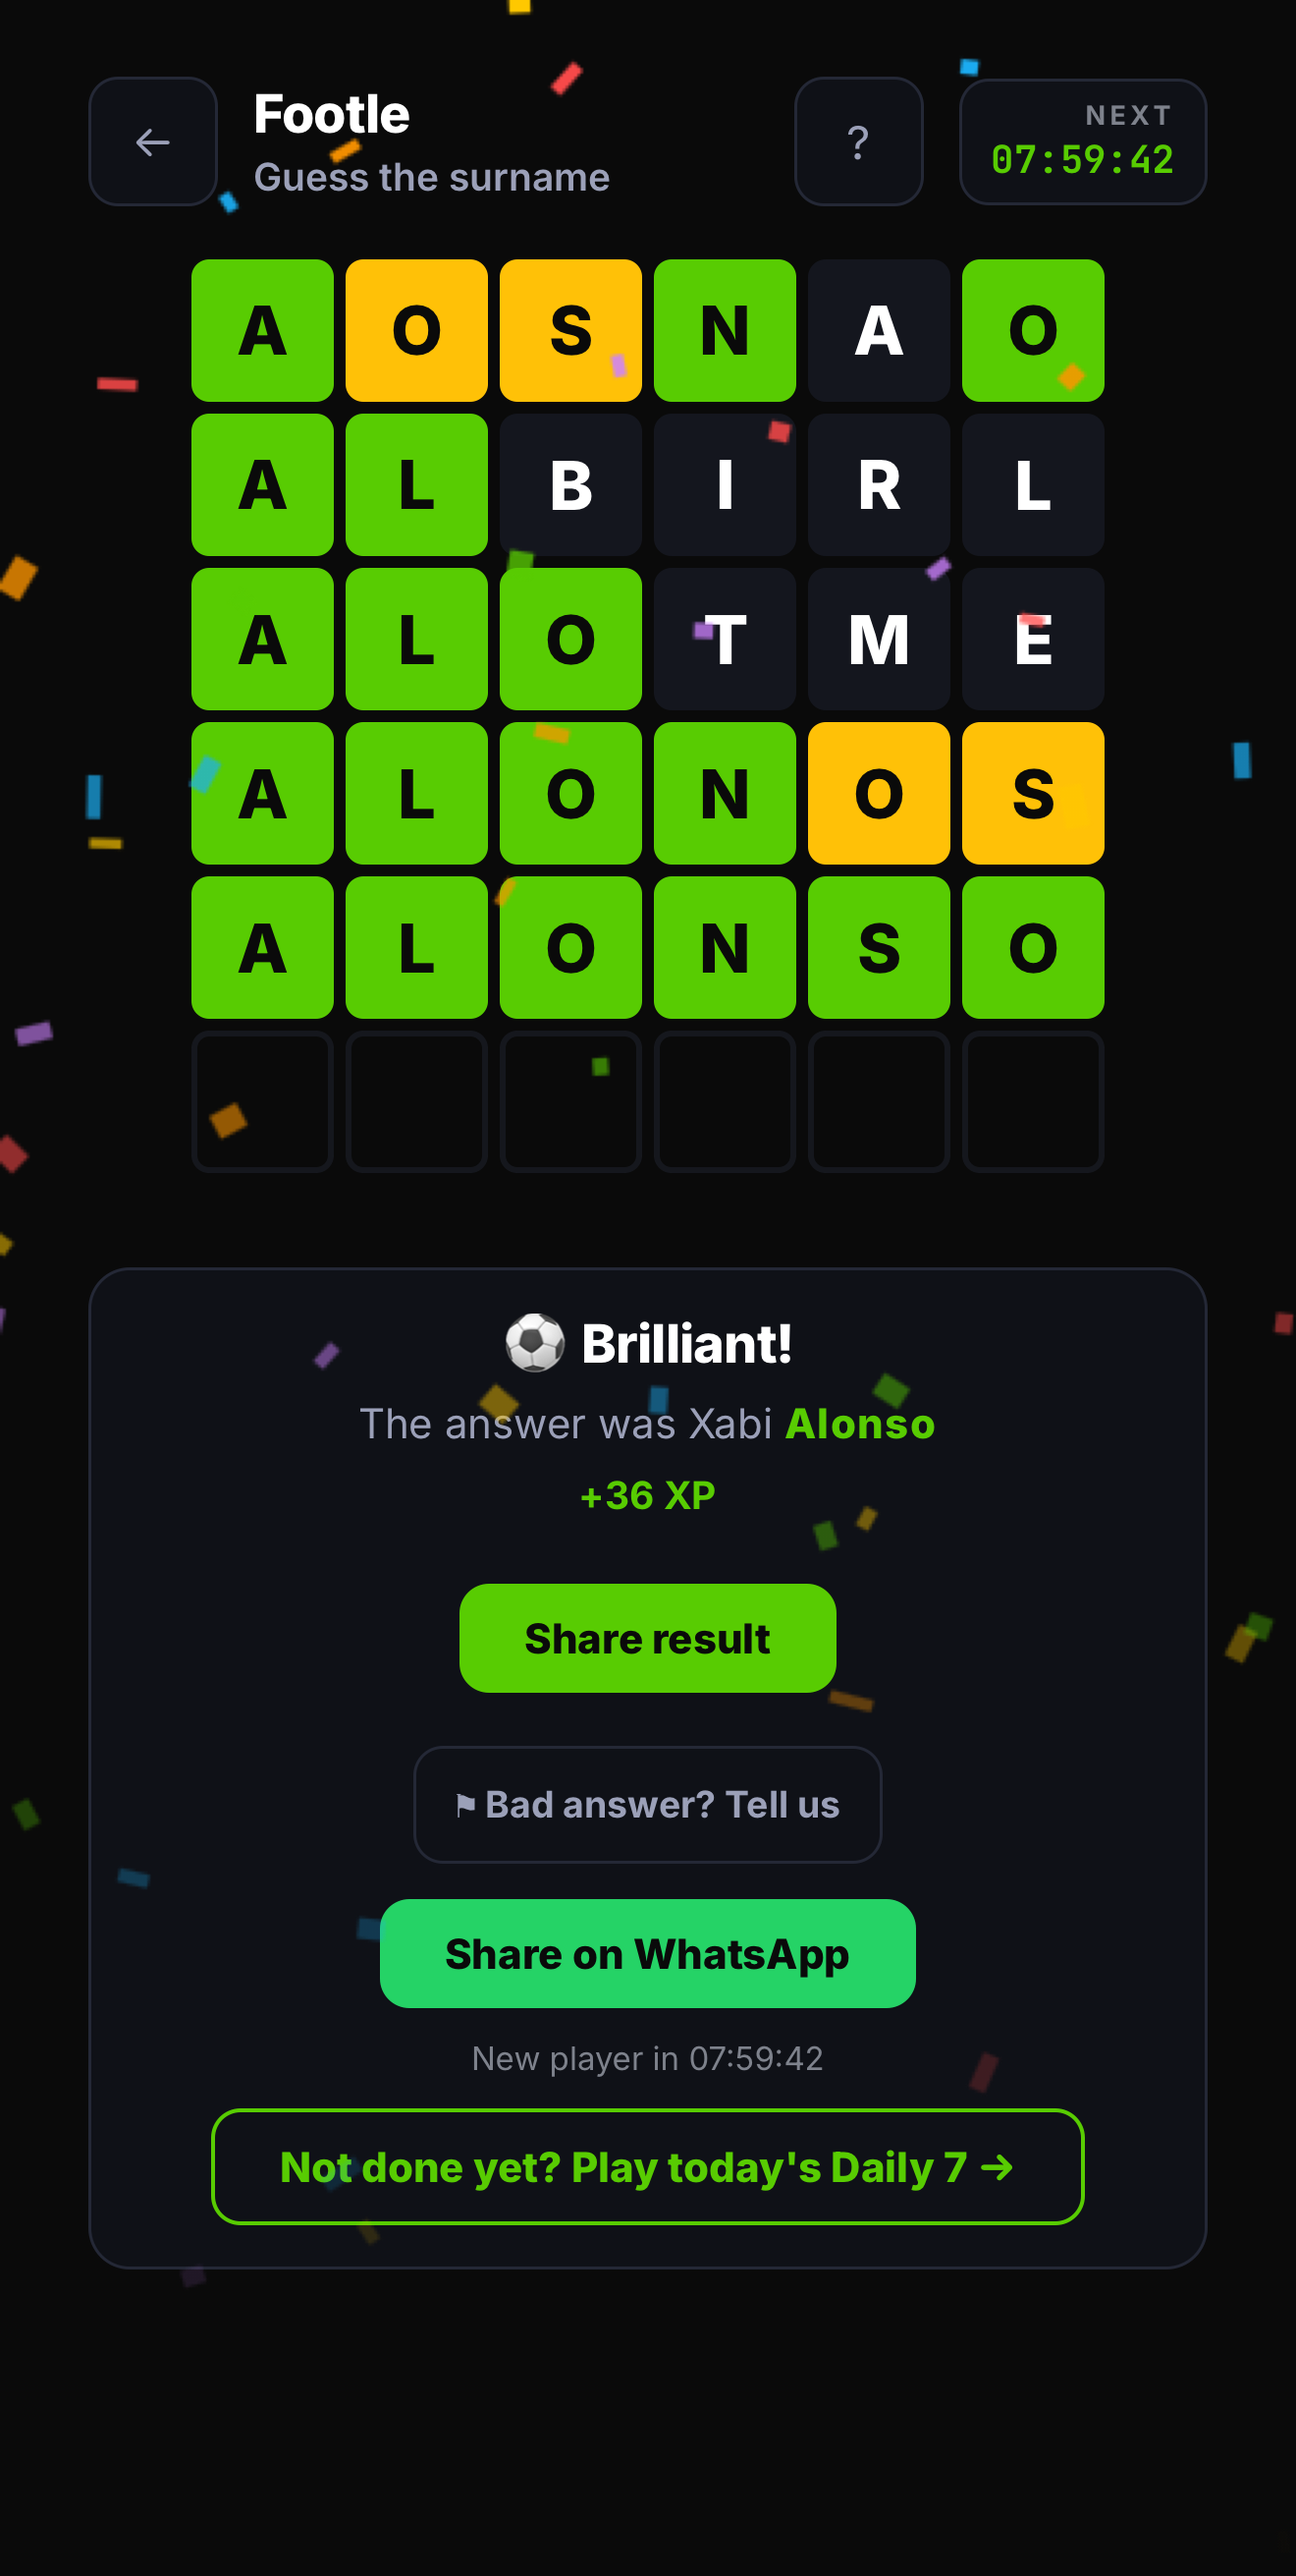
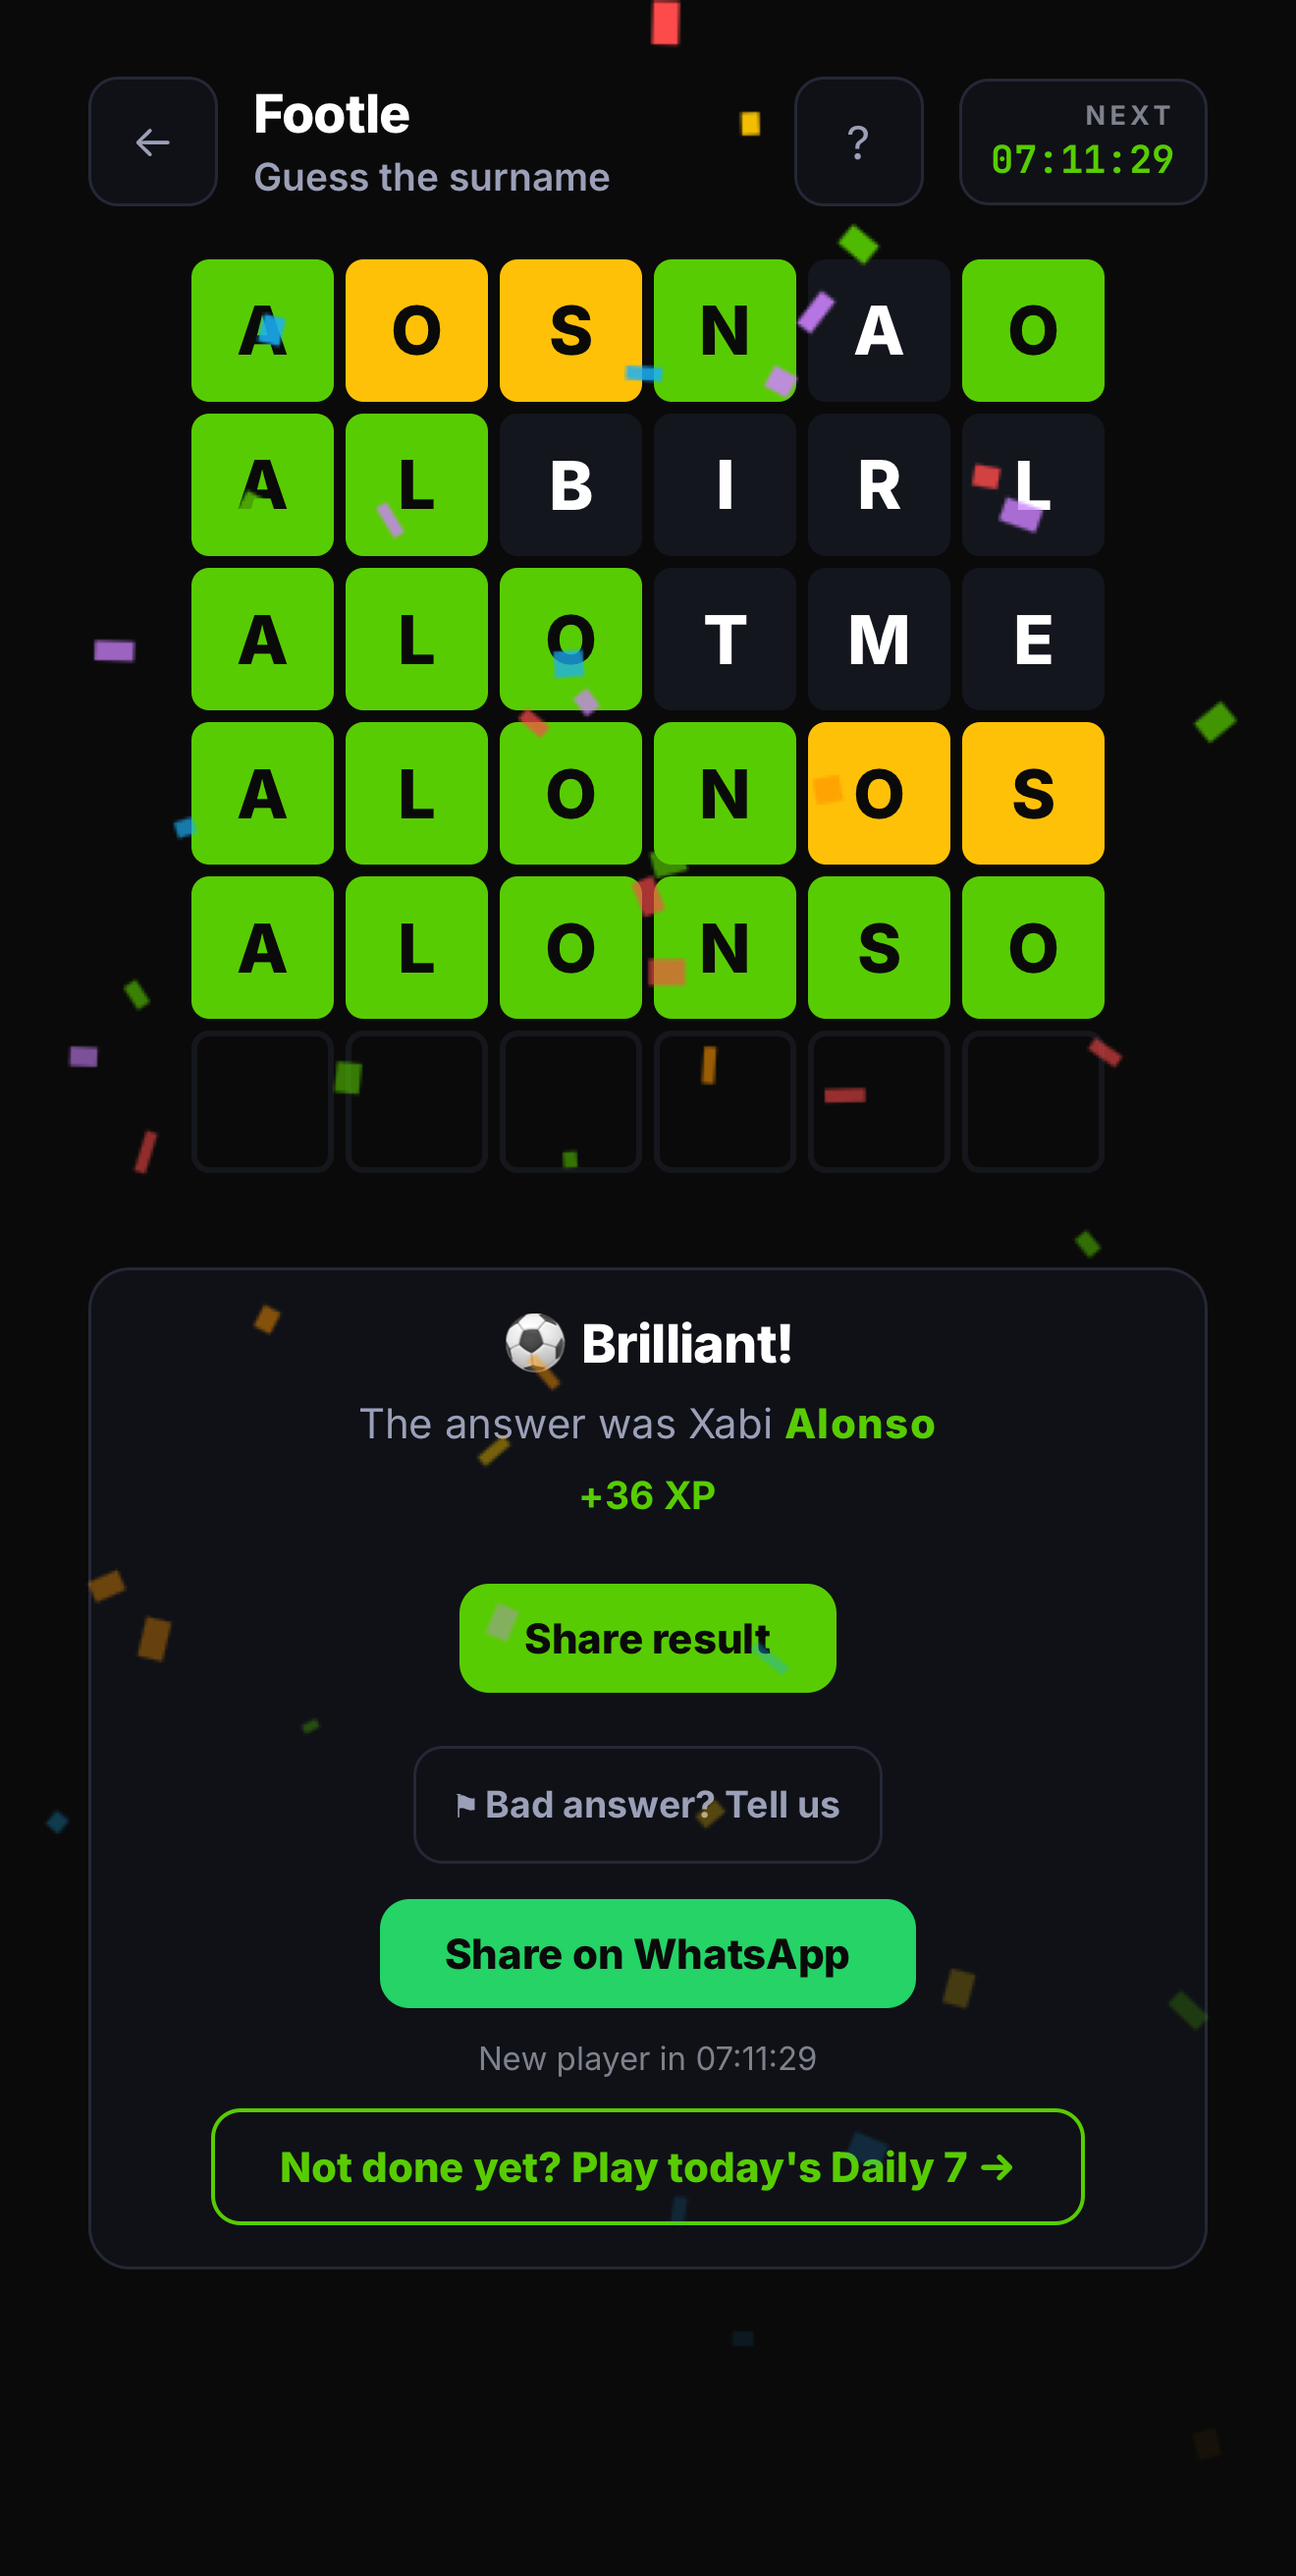
chore(store): 1.6.0 assets — build 63, renamed to "Ball IQ - Football Quiz"
Everything App Store Connect needs, in store-assets/1.6.0/: eight framed
screenshots at 1284x2778 plus paste-ready name, subtitle, promo text,
description and release notes.

RENAME: "Ball IQ - Football Trivia" -> "Ball IQ - Football Quiz", Alex's call,
and it aligns the app name with the head term we are chasing on the web.

⚠ THE RENAME FORCES A SUBTITLE CHANGE, which is easy to miss. Apple indexes
name + subtitle + keywords, and a word repeated across those fields is wasted —
it does not rank you twice. The existing subtitle "The Ultimate Football Quiz"
would now repeat BOTH words in the name. Replaced with "Daily puzzles & club
trivia", where every word is new to the pair (daily · puzzles · club · trivia).

SCREENSHOTS. Footle reused per Alex ("looks alright as is"); the rest re-shot
against the current build. Three are new:
· transfer-trail — won on the LAST of five attempts, whole club ladder showing
· mystery-player — solved on the sixth guess, rank ladder narrowing to 1
· daily-chips    — Alex's ask, "those new green and red chips on daily 7"

⚠ The Daily 7 shot answers FIVE of seven correctly, deliberately. Answering
blind produced "1 correct out of 7 — Everyone starts somewhere", a dreadful
advert; a flawless 7/7 is one colour and teaches nothing, because the green
tick only reads as feedback beside a red one. Answers are derived in Node and
matched BY TEXT, since option order is shuffled per player.
[…]

diff --git a/store-assets/1.6.0/LISTING.md b/store-assets/1.6.0/LISTING.md
@@ -1,0 +1,110 @@
+# Ball IQ 1.6.0 — store listing (paste-ready)
+
+Built 2026-08-15. iOS build **63**, Android **versionCode 18**, both `1.6.0`.
+Screenshots: `screenshots-6.9/` — 8 framed PNGs at 1284×2778 (6.9" / 6.5" slot).
+
+⚠ THREE RULES THIS COPY OBEYS, all learned the hard way:
+1. **No question counts, no mode counts.** Binding rule, gated by
+   `scripts/audit-no-question-count.mjs`. The live listing still says "4,000+
+   questions across 10 game modes" — both numbers are now wrong, and a number in
+   a screenshot or description cannot be edited without a new upload, so it rots
+   in public. Sell breadth instead ("Real Madrid to Hajduk Split").
+2. **No FIFA, no World Cup.** 1.3.3 was rejected under Guideline 5.2.1 for
+   exactly this. Web SEO keeps the phrase; the app listing must not.
+3. **Never claim every answer is explained.** Measured coverage is ~78%, not
+   100%. "Most answers explained" is the honest form and is what ships.
+
+---
+
+## App name  (30 char limit)
+
+```
+Ball IQ - Football Quiz
+```
+23 chars. Was "Ball IQ - Football Trivia".
+
+⚠ **This forces a subtitle change.** Apple indexes name + subtitle + keywords
+and a word repeated across fields is wasted — it does not rank you twice. The
+current subtitle is "The Ultimate Football Quiz", which would now repeat BOTH
+"Football" and "Quiz". Every word in the subtitle below is new to the pair.
+
+## Subtitle  (30 char limit)
+
+```
+Daily puzzles & club trivia
+```
+27 chars. Adds four fresh terms: daily · puzzles · club · trivia.
+
+## Promotional text  (170 char limit — editable without review)
+
+```
+New: Mystery Player and Transfer Trail. Four daily puzzles, one football brain. Guess the secret player, name him from his career, and keep the streak alive.
+```
+156 chars.
+
+## Description
+
+```
+Ball IQ — Football Quiz
+
+Every football question here is written and checked by football fans, never auto-generated. From the Premier League to the Eredivisie, from the Lisbon Lions to last night — Ball IQ has the depth real fans demand.
+
+FOUR DAILY PUZZLES
+• Footle — the daily football word game. One surname, six guesses, everyone gets the same player.
+• Daily 7 — seven fresh questions, marked instantly. Green right, red wrong.
+• Transfer Trail — name the player from his career, one club at a time. Fewer clubs, more credit.
+• Mystery Player — every guess is ranked against the secret player. Rank 1 is the answer, nothing else is.
+
+PLAY YOUR CLUB
+Pick your team and face questions written about them, from Real Madrid to Hajduk Split. Or take a whole league — Premier League, La Liga, Serie A, Bundesliga, Ligue 1.
+
+PLAY YOUR MATES
+• Live rooms for up to eight players
+• Pass-and-play on a single phone
+• Share any result as a spoiler-free grid
+
+BUILT FOR PEOPLE WHO ACTUALLY WATCH
+• Most answers come with the story behind them, not just a tick
+• A streak worth defending, and a rating that moves with your form
+• Free to play, no sign-up needed to start
+```
+
+## What's New in This Version
+
+```
+Mystery Player and Transfer Trail are now part of your daily four.
+
+• Mystery Player: type two letters and pick from a ranked list — no more spelling a name perfectly to make a guess.
+• Transfer Trail: the same instant name search, so a guess is never lost to a typo.
+• A much sharper ranking. Guess a keeper from the same era as the answer and it now reads warm, as it should.
+• Thousands of players had an old club against their name. Fixed — Bayern is Bayern again.
+• Fixed a bug where the app could hang on the loading screen with no connection.
+```
+
+---
+
+## Reused vs new screenshots
+
+| file | status |
+|---|---|
+| 01-home | re-shot (current Home) |
+| 02-footle | **reused** — Alex: "looks alright as is" |
+| 03-club-picker | re-shot |
+| 04-transfer-trail | **NEW** — played to a win on the last of five attempts |
+| 05-quiz-explanation | re-shot |
+| 06-profile | re-shot |
+| 07-mystery-player | **NEW** — solved on the sixth guess, rank ladder visible |
+| 08-daily-chips | **NEW** — Alex's ask: the green/red chip run, 5 ✓ 7/7 |
+
+⚠ 08 stops ON the last question rather than the results page. Finishing the
+daily as a guest raises the "Save your progress" auth sheet, and it appears
+AFTER the screen assertion runs — the check went green while the captured frame
+was the sign-up sheet. The question frame is also the better advert: it carries
+the chip run, a live question and "✓ Correct!" in one view.
+
+## Still to do (Alex)
+
+- Upload build 63 from Xcode Organizer.
+- Paste the name/subtitle/promo/description above into App Store Connect.
+- Replace the six current screenshots with the eight here.
+- Android: `versionCode 18` AAB is not yet built — say the word.
